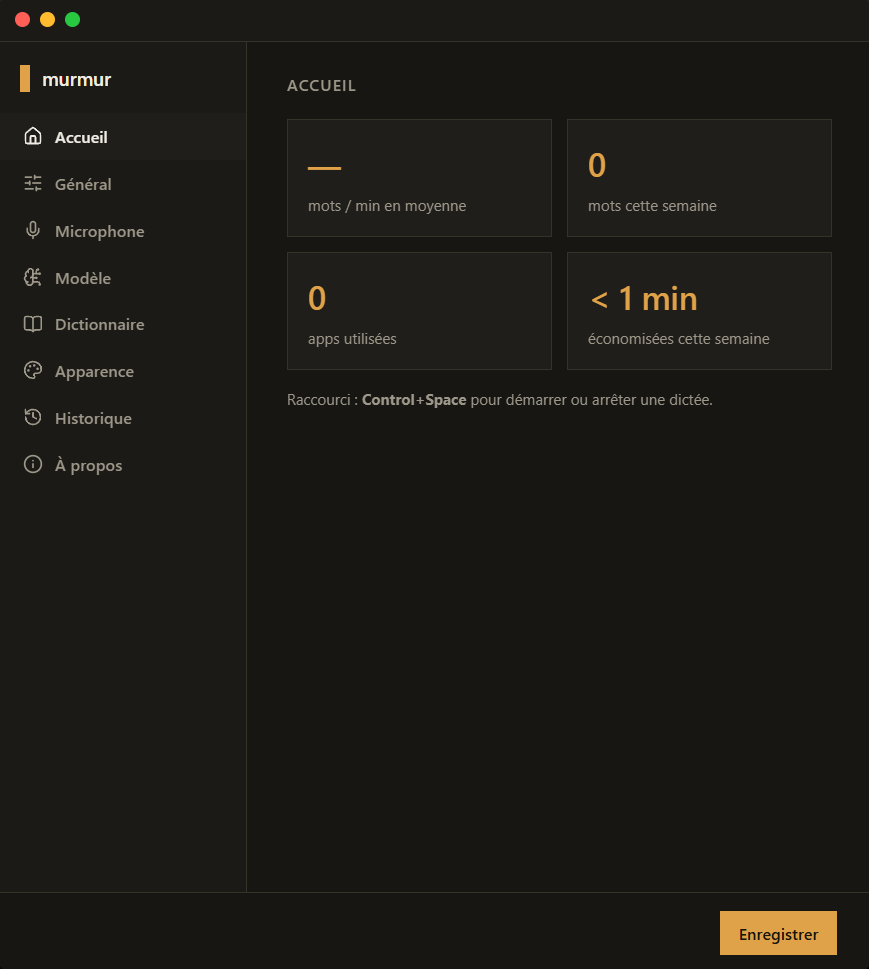
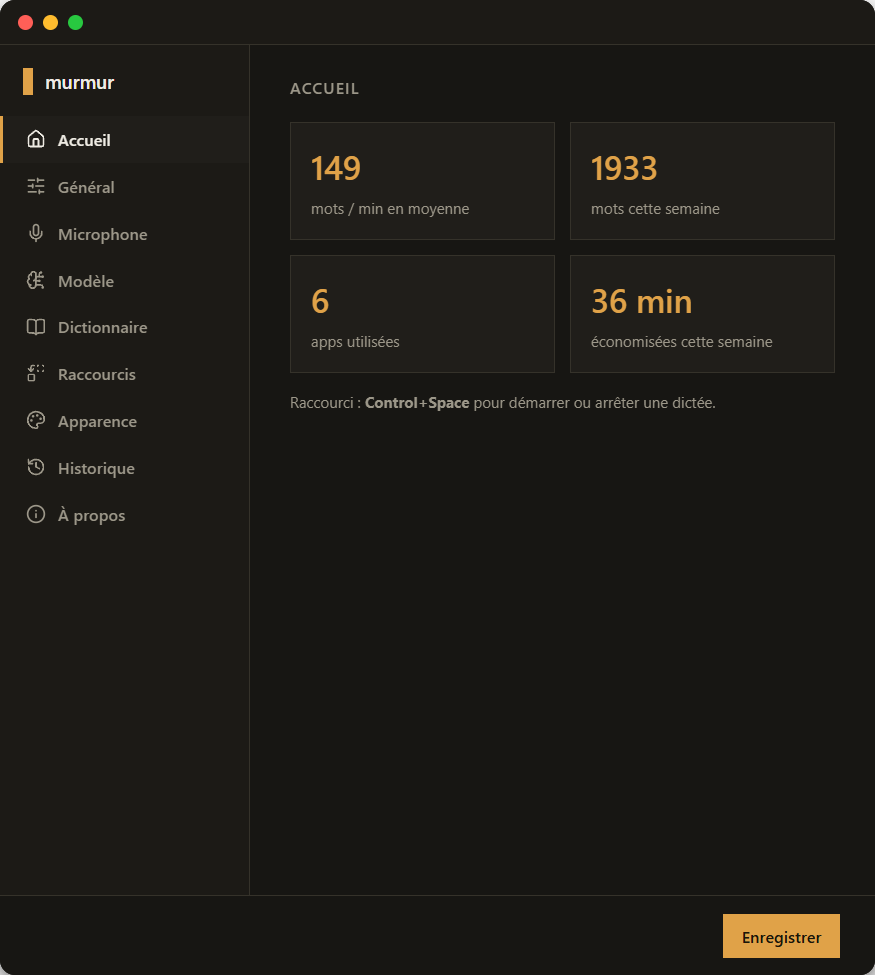
📦 chore: capture README screenshots from the app itself

diff --git a/src/main/screenshotMode.ts b/src/main/screenshotMode.ts
@@ -1,0 +1,57 @@
+import { mkdirSync, writeFileSync } from 'node:fs'
+import { join } from 'node:path'
+import type { BrowserWindow } from 'electron'
+import { IpcChannel } from '../shared/types'
+
+interface ScreenshotTargets {
+  outputDir: string
+  settingsWindow: BrowserWindow
+  overlayWindow: BrowserWindow
+  showRecordingOverlay: () => void
+}
+
+const SETTINGS_SECTIONS: ReadonlyArray<{ section: string; fileName: string }> = [
+  { section: 'home', fileName: 'screenshot-settings.png' },
+  { section: 'shortcuts', fileName: 'screenshot-shortcuts.png' }
+]
+
+function wait(ms: number): Promise<void> {
+  return new Promise((resolvePromise) => setTimeout(resolvePromise, ms))
+}
+
+function whenLoaded(window: BrowserWindow): Promise<void> {
+  if (!window.webContents.isLoadingMainFrame()) {
+    return Promise.resolve()
+  }
+  return new Promise((resolvePromise) => window.webContents.once('did-finish-load', () => resolvePromise()))
+}
+
+async function saveCapture(window: BrowserWindow, path: string): Promise<void> {
+  const image = await window.webContents.capturePage()
+  writeFileSync(path, image.toPNG())
+}
+
+export async function captureScreenshots(targets: ScreenshotTargets): Promise<void> {
+  const { outputDir, settingsWindow, overlayWindow, showRecordingOverlay } = targets
+  mkdirSync(outputDir, { recursive: true })
+
+  await whenLoaded(settingsWindow)
+  await wait(800)
+  for (const { section, fileName } of SETTINGS_SECTIONS) {
+    await settingsWindow.webContents.executeJavaScript(
+      `document.querySelector('.nav-item[data-section="${section}"]').click()`
+    )
+    await wait(500)
+    await saveCapture(settingsWindow, join(outputDir, fileName))
+  }
+
+  await whenLoaded(overlayWindow)
+  showRecordingOverlay()
+  const levels = [0.35, 0.6, 0.75, 0.55, 0.7]
+  for (const level of levels) {
+    overlayWindow.webContents.send(IpcChannel.AudioLevel, level)
+    await wait(120)
+  }
+  await wait(300)
+  await saveCapture(overlayWindow, join(outputDir, 'screenshot-overlay.png'))
+}

diff --git a/src/main/index.ts b/src/main/index.ts
@@ -12,6 +12,7 @@ import {
   saveShortcuts
 } from './settingsStore'
 import { loadHistory, appendHistoryEntry } from './historyStore'
+import { captureScreenshots } from './screenshotMode'
 import { ensureWhisperServer, stopWhisperServer } from './whisperServer'
 import { transcribeAudio } from './transcribe'
 import { pasteIntoActiveWindow } from './textInjector'
@@ -387,28 +388,24 @@ app.whenReady().then(async () => {
   registerHotkey()
   applyLaunchAtStartup()
   checkForUpdatesAtLaunch()
-  if (process.env['MURMUR_SCREENSHOT']) {
+  const screenshotDir = process.env['MURMUR_SCREENSHOT']
+  if (screenshotDir) {
     createSettingsWindow()
-    const simulateRecording = (): void => {
-      setAppState('recording')
-      let fakeLevel = 0
-      setInterval(() => {
-        fakeLevel = fakeLevel > 0.6 ? 0.15 : fakeLevel + 0.25
-        overlayWindow?.webContents.send(IpcChannel.AudioLevel, fakeLevel)
-      }, 90)
-    }
-    if (overlayWindow?.webContents.isLoadingMainFrame()) {
-      overlayWindow.webContents.once('did-finish-load', simulateRecording)
-    } else {
-      simulateRecording()
+    if (settingsWindow && overlayWindow) {
+      await captureScreenshots({
+        outputDir: screenshotDir,
+        settingsWindow,
+        overlayWindow,
+        showRecordingOverlay: () => setAppState('recording')
+      })
+      app.quit()
+      return
     }
   }
   await startWhisperServerAtLaunch()
 })
 
-app.on('window-all-closed', () => {
-  // l'app reste active dans la barre système
-})
+app.on('window-all-closed', () => undefined)
 
 app.on('will-quit', () => {
   globalShortcut.unregisterAll()
